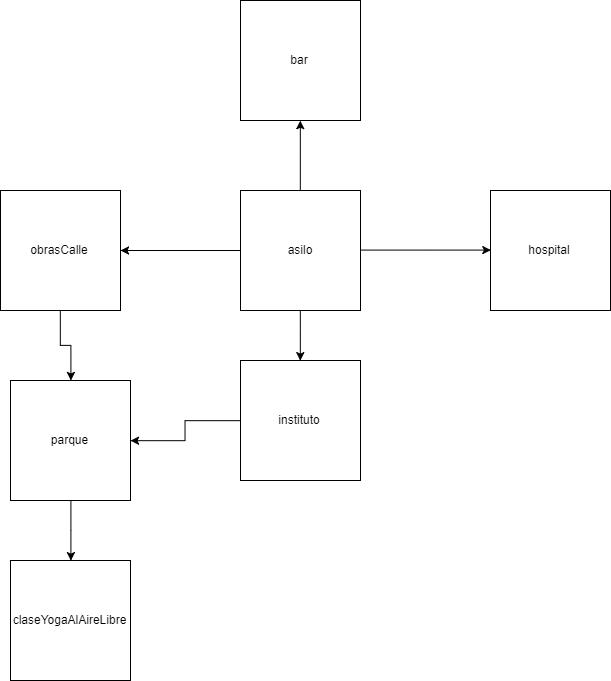
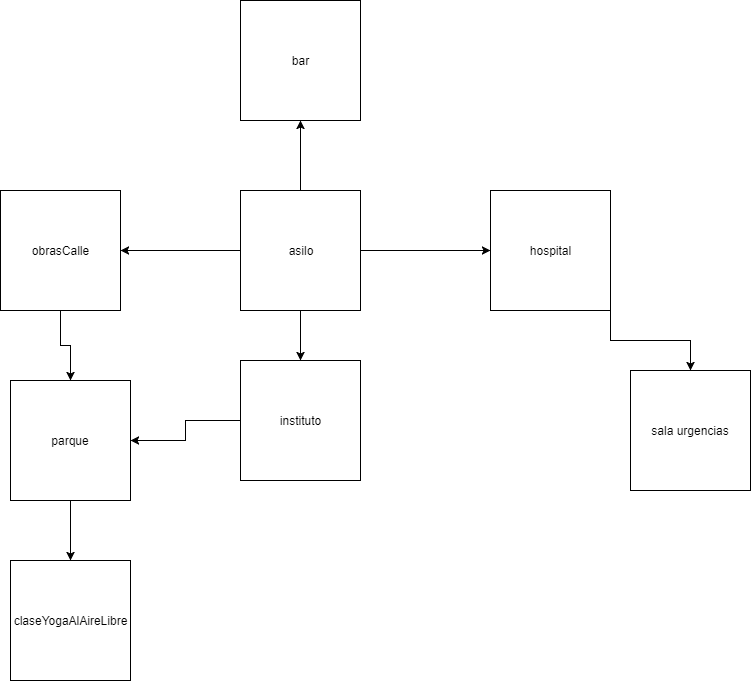
04 metida salaurgencias al sureste del hospital y corregido erro en el commit 01

diff --git a/Room.java b/Room.java
@@ -19,6 +19,7 @@ public class Room
     public Room southExit;
     public Room eastExit;
     public Room westExit;
+    public Room southEastExit;
 
     /**
      * Create a room described "description". Initially, it has
@@ -39,7 +40,7 @@ public class Room
      * @param south The south exit.
      * @param west The west exit.
      */
-    public void setExits(Room north, Room east, Room south, Room west) 
+    public void setExits(Room north, Room east, Room south, Room west,Room southEast) 
     {
         if(north != null)
             northExit = north;
@@ -49,6 +50,8 @@ public class Room
             southExit = south;
         if(west != null)
             westExit = west;
+             if(southEast != null)
+           southEastExit = southEast;
     }
 
     /**
